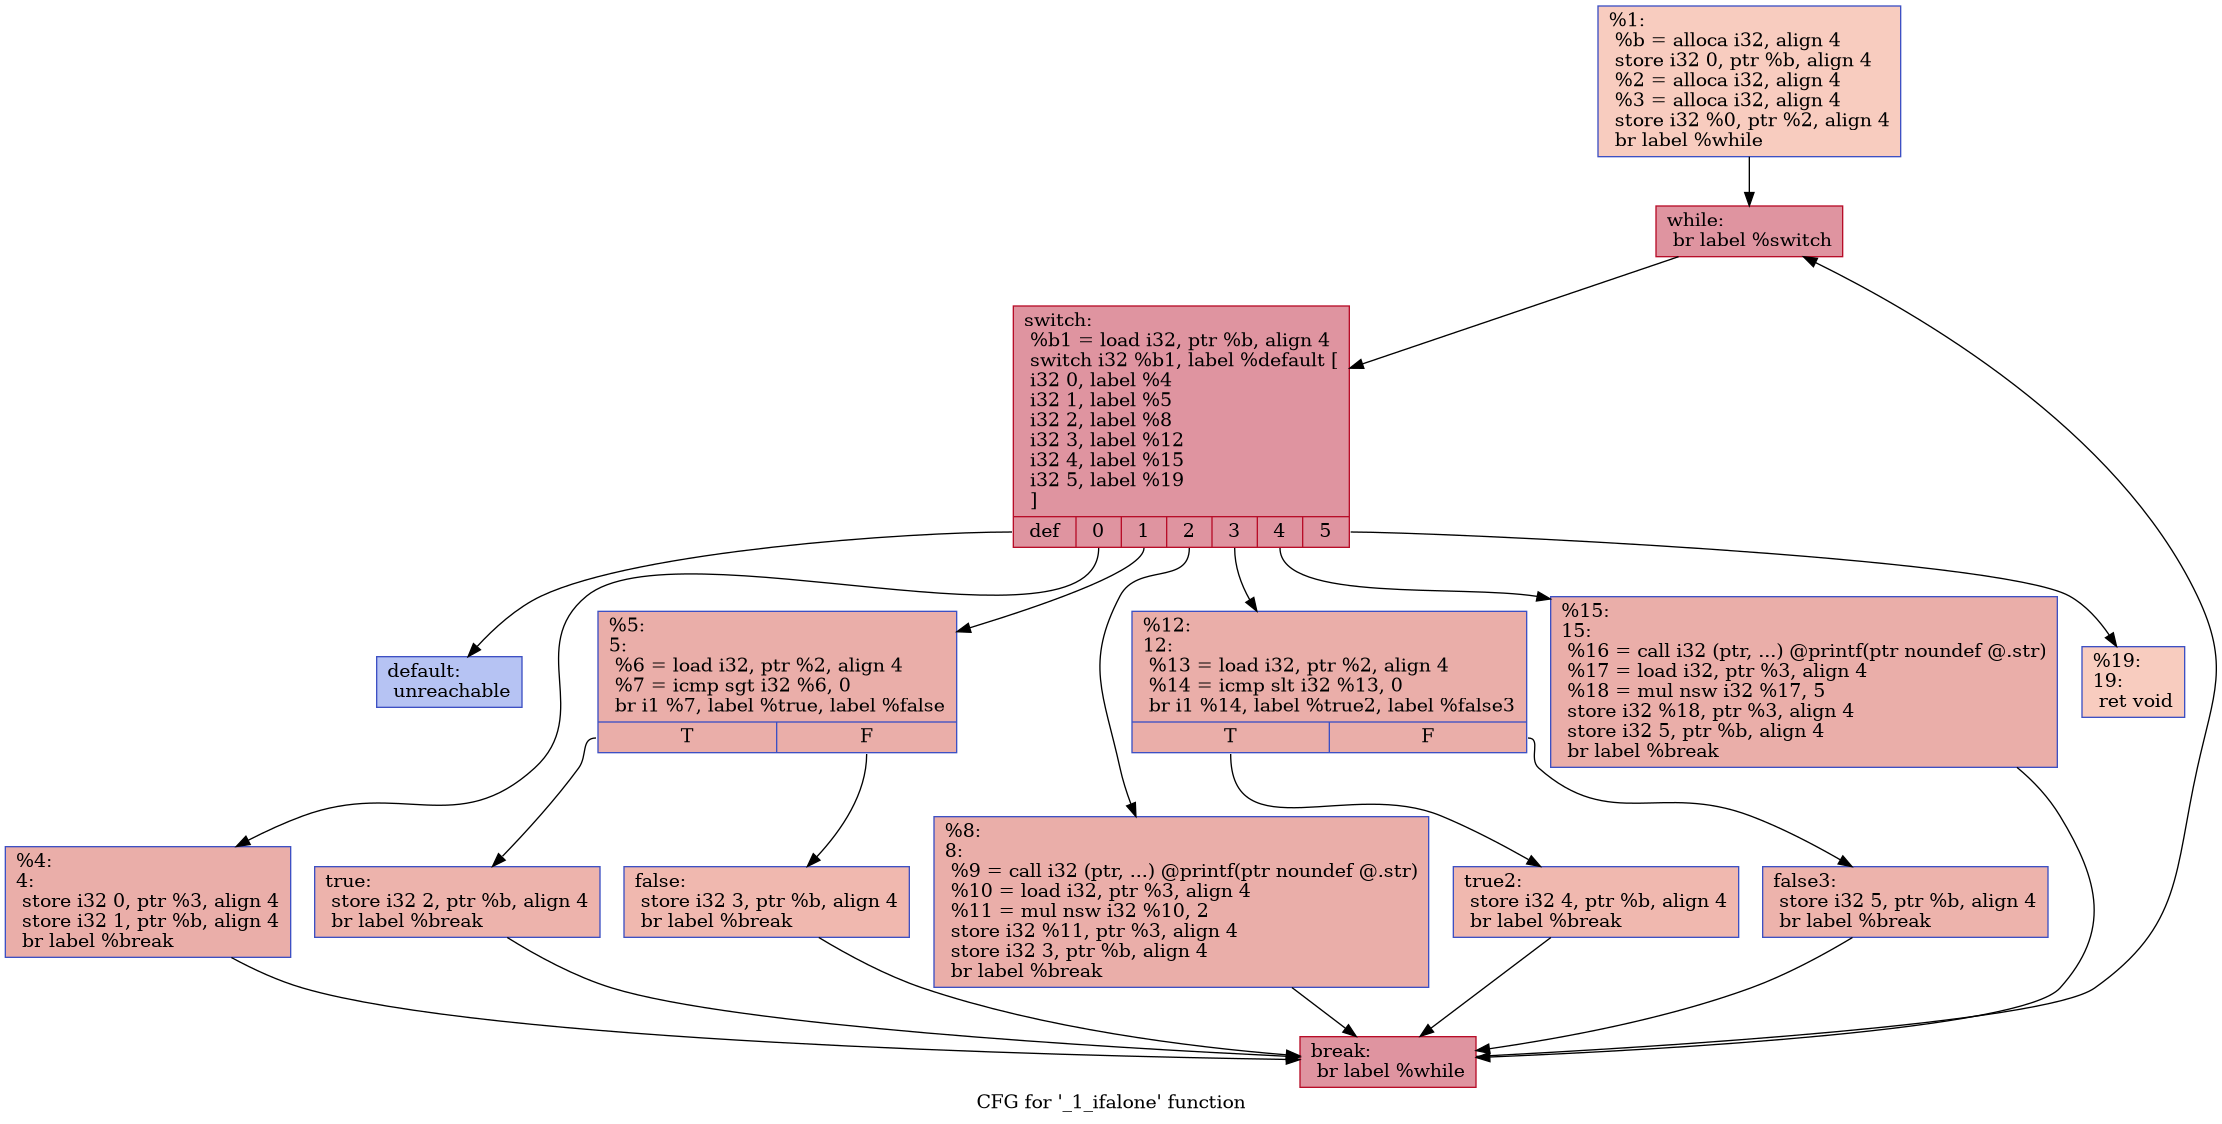
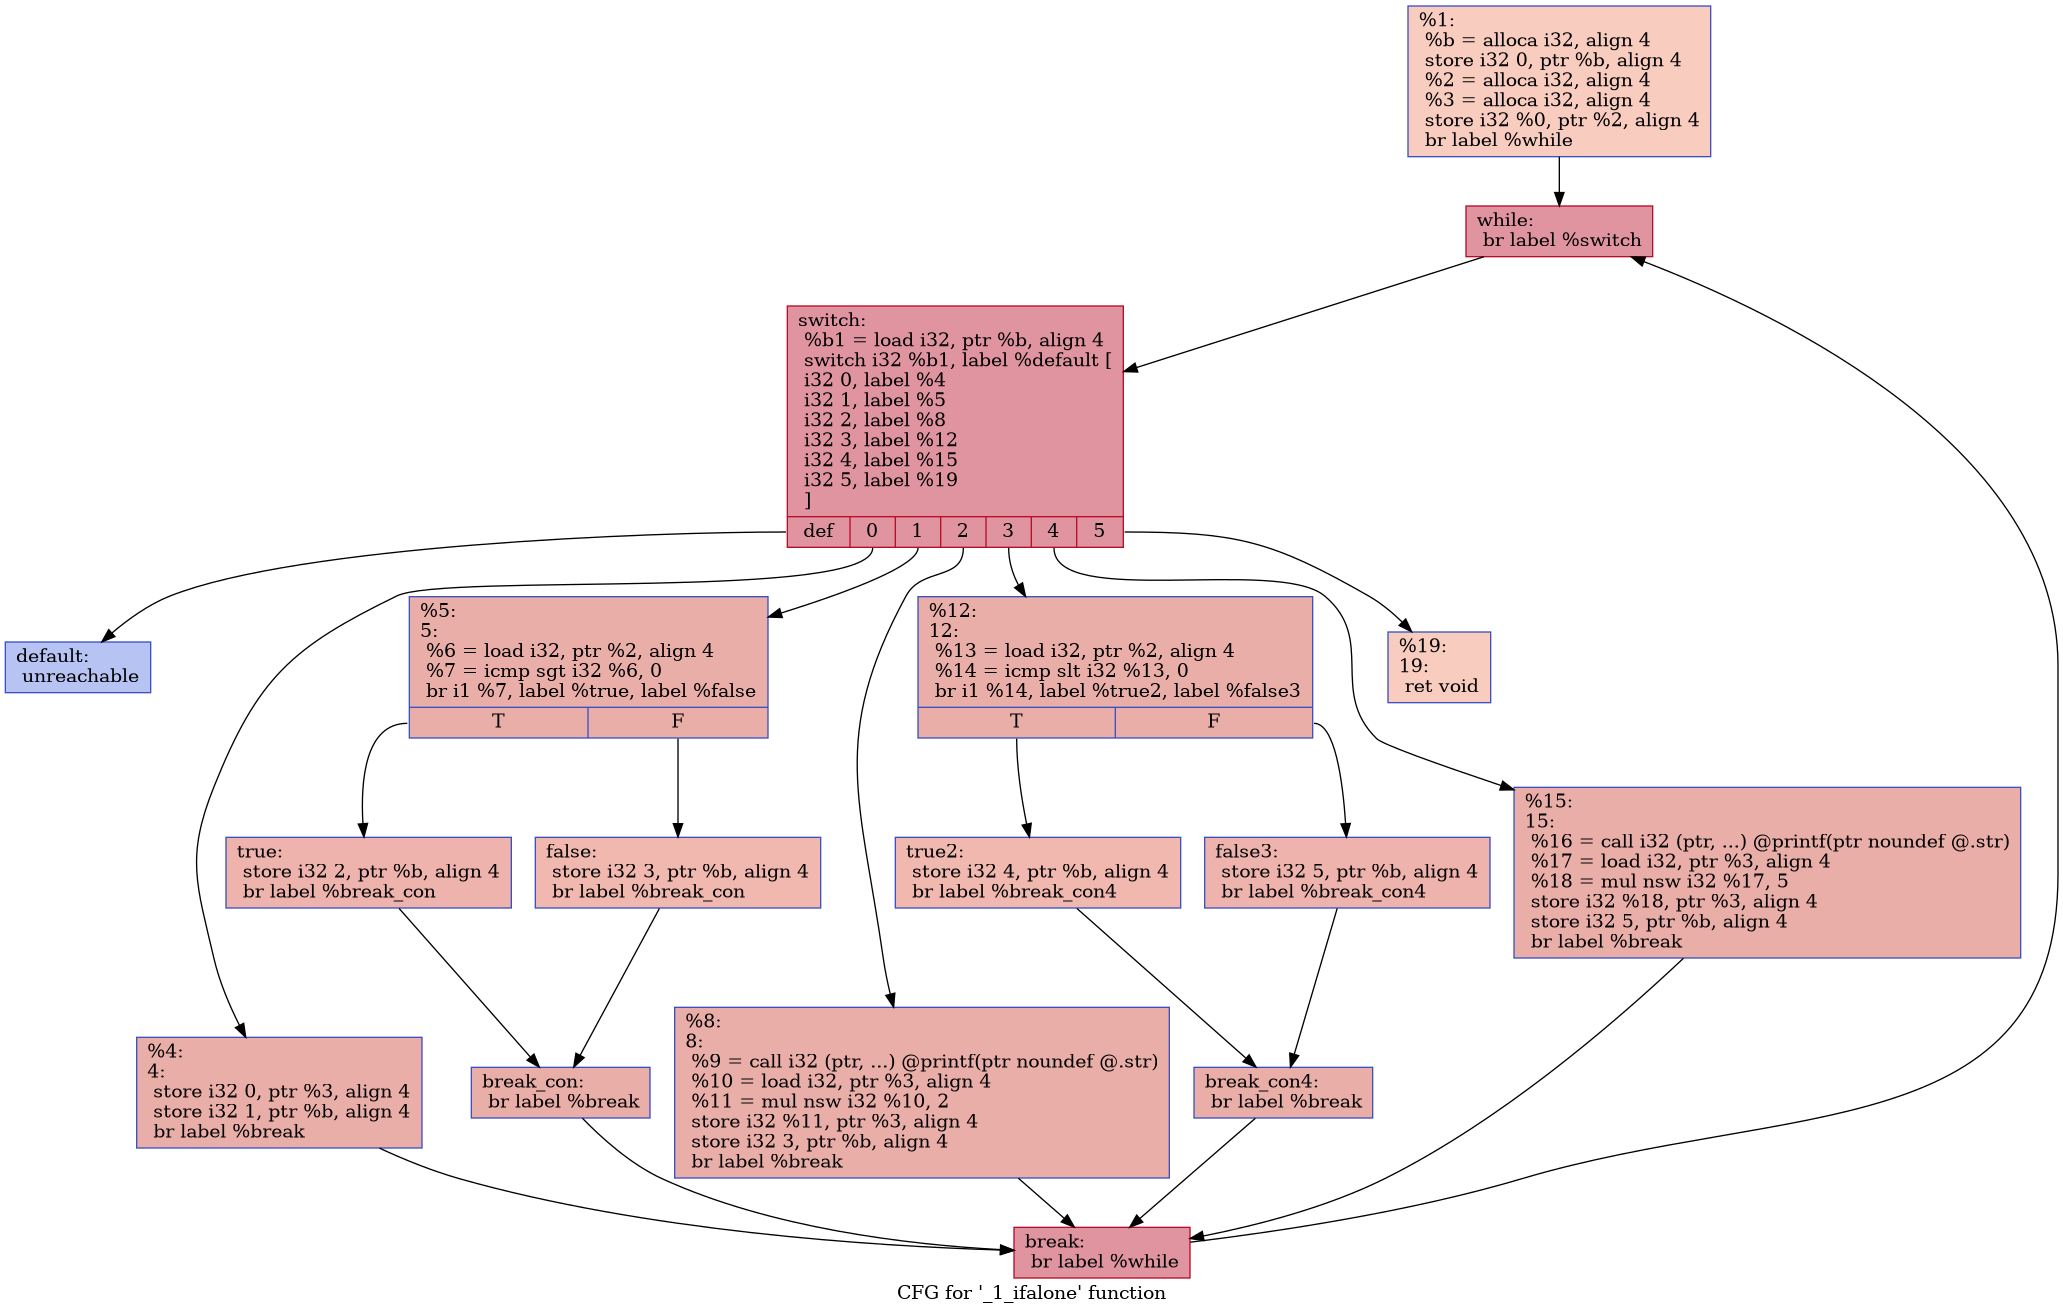
added break point in conditional blocks

diff --git a/lib/ControlFlowFlatteningPass.cpp b/lib/ControlFlowFlatteningPass.cpp
@@ -111,9 +111,11 @@ static BasicBlock* createAndBuildDispatcher(Function &F,  SmallVector<BasicBlock
             //creating also the new BBs to replace later as successors
             BasicBlock *trueBB = BasicBlock::Create(Ctx, "true", &F);
             BasicBlock *falseBB = BasicBlock::Create(Ctx, "false", &F);
+            BasicBlock *breakConBB = BasicBlock::Create(Ctx, "break_con", &F);
             
             IRBuilder<> trueBuilder(trueBB);
             IRBuilder<> falseBuilder(falseBB);
+            IRBuilder<> breakConBuilder(breakConBB);
         
             //a simple lambda function to find in which case the target BB is
             auto findIndex = [&](BasicBlock *Target) -> int {
@@ -127,8 +129,9 @@ static BasicBlock* createAndBuildDispatcher(Function &F,  SmallVector<BasicBlock
             trueBuilder.CreateStore(builder.getInt32(trueB), allocaIns);
             falseBuilder.CreateStore(builder.getInt32(falseB), allocaIns);
             //and finally we connect the new BBs toward the break BB
-            falseBuilder.CreateBr(breakBB);
-            trueBuilder.CreateBr(breakBB);
+            falseBuilder.CreateBr(breakConBB);
+            trueBuilder.CreateBr(breakConBB);
+            breakConBuilder.CreateBr(breakBB);
             //replacement
             BI->setSuccessor(0,trueBB);
             BI->setSuccessor(1,falseBB);
